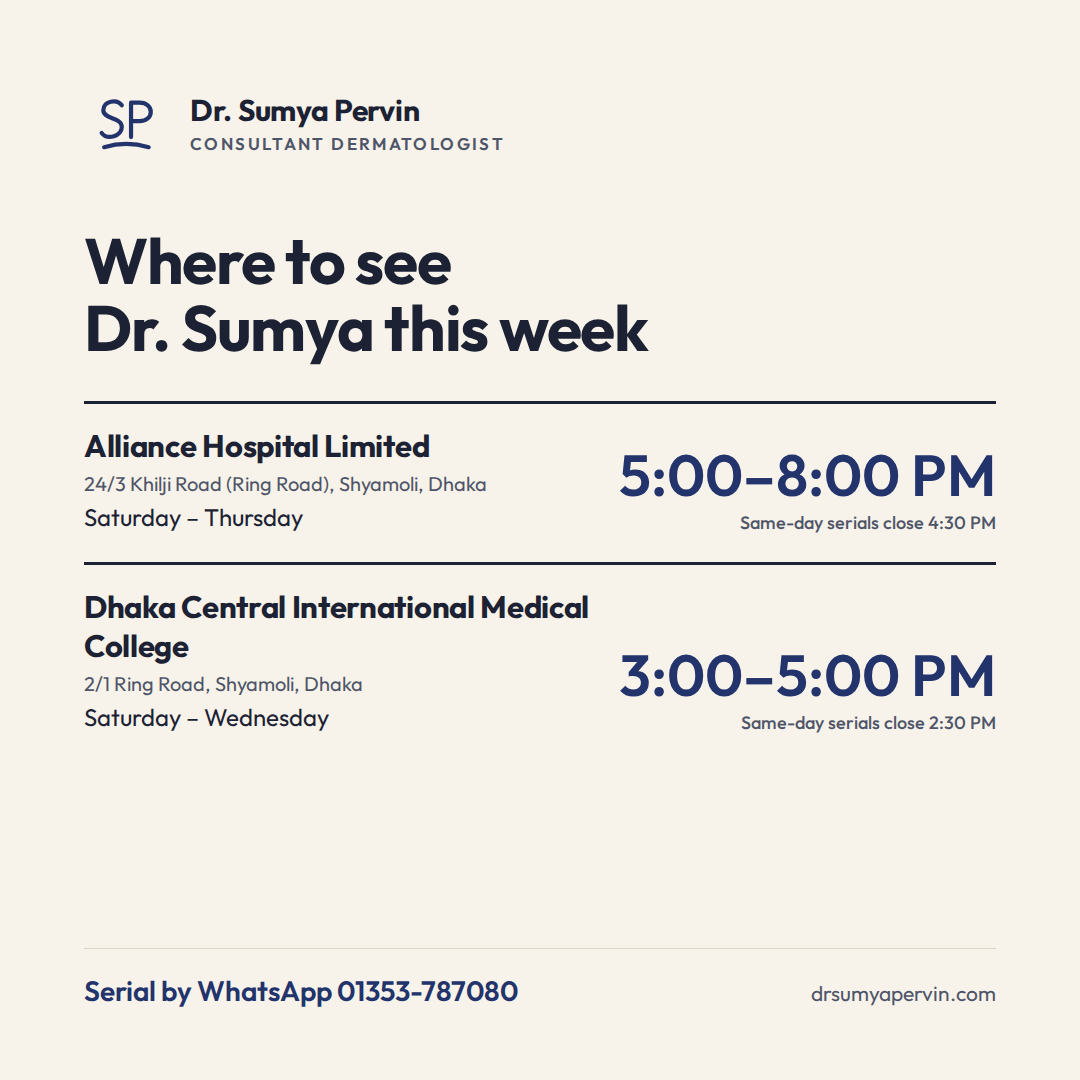
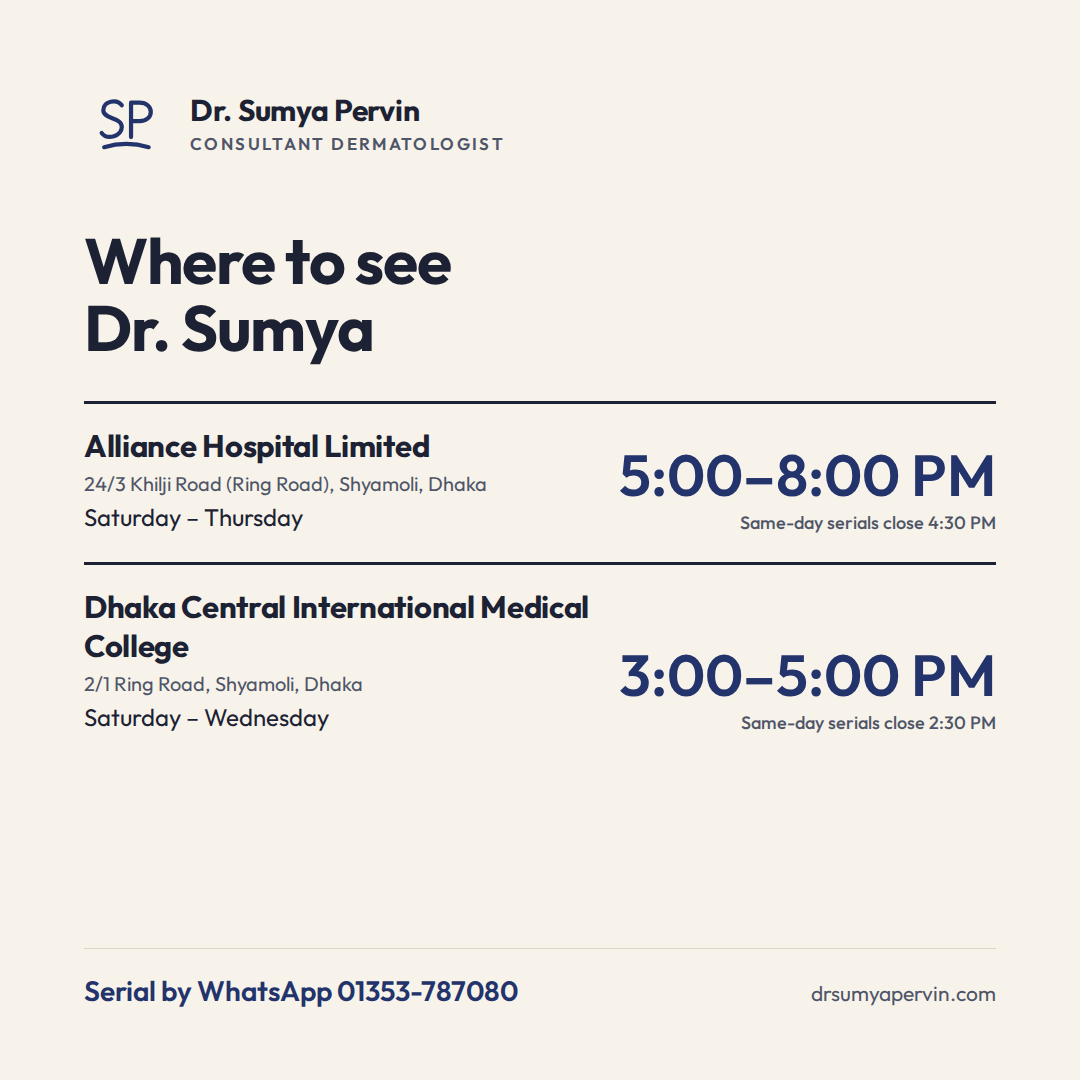
Review round: stable regeneration, area from the address, evergreen post
- The five print PDFs carry a fixed date stamp now: the build overwrites
  Chromium's wall-clock CreationDate/ModDate with a same-length fixed one,
  so a rerun that changes nothing leaves the PDFs byte-identical. The
  preview PNGs can still differ by a few sub-pixel anti-aliasing pixels
  with no visible change (measured: 5 px, mean diff 0.0); the README says
  such a diff can be discarded.
- The chamber area is read from the address itself (the part before the
  city) instead of the hardcoded "Shyamoli", so a future chamber outside
  Shyamoli cannot be mislabelled.
- The chamber-hours post no longer says "this week": it is a static asset
  and the word expired on printing it.
- README: the canonical qualifications line joins the owner's open
  questions (the confirmed source carries the years and BCPS; the kit
  prints the site's shorter line), and the proof note names the 5.4-6.6 pt
  card labels at the print floor.

Regenerated: the PDF date stamps are zeroed, and the chamber-hours post
is re-rendered without "this week". Verified: two consecutive rebuilds
leave every PDF byte-identical.

Changed region(s): [[0.3361, 0.275, 0.6111, 0.3361]]

diff --git a/design/brand-kit/README.md b/design/brand-kit/README.md
@@ -24,6 +24,8 @@ python design/brand-kit/tools/outline-type.py
 
 The fonts, Outfit and Hind Siliguri (both OFL), are downloaded once into `.cache/`, which git ignores.
 
+A regeneration is reproducible: the PDFs carry a fixed date stamp (the build overwrites Chromium's wall-clock one), so a rerun that changes nothing leaves the tree clean. The preview PNGs can still differ by a few pixels of sub-pixel anti-aliasing with no visible change — such a diff can be discarded.
+
 ## Contents
 
 | Folder | Files | Use |
@@ -39,7 +41,7 @@ The fonts, Outfit and Hind Siliguri (both OFL), are downloaded once into `.cache
 | | `follow-up-card-89x51.pdf` | The next-visit card, filled in by hand at the desk. |
 | | `nameboard-<chamber>-a3.pdf` | A3 landscape board for each chamber door. |
 
-The print PDFs are trim size plus **3 mm bleed** on every side, with no crop marks. Tell the printer the trim size from the table, and ask for a printed proof on the chosen stock before the full run. The PDFs are RGB, so deep indigo shifts between presses.
+The print PDFs are trim size plus **3 mm bleed** on every side, with no crop marks. Tell the printer the trim size from the table, and ask for a printed proof on the chosen stock before the full run. The PDFs are RGB, so deep indigo shifts between presses. The smallest card labels sit at 5.4–6.6 pt, at the practical print floor — check them first on the proof.
 
 ## Decisions taken for the owner
 
@@ -56,3 +58,4 @@ Dr. Sumya delegated these decisions on 2026-10-04.
 2. **"MD" in the site title.** `content/site.mjs` titles her "Dr. Sumya Pervin, MD", but no MD degree appears in her qualifications. The kit leaves it out. The website title should be checked too.
 3. **Bangla.** The follow-up card and nameboards would serve more patients with a Bangla line. Bangla needs her approval of the exact wording and the spelling of her name, so none is printed yet.
 4. **The Centre (2027).** The kit has no Centre lockup or signage. These come once the Centre is real.
+5. **The canonical qualifications line.** The kit prints the site's credential line — "MBBS (SSMC) · DDV (BSMMU) · FCPS (Skin & VD)" — but the confirmed source also carries the years and the granting body: "MBBS (SSMC, 2011) · DDV (BSMMU, 2019) · FCPS — Skin & VD (BCPS, 2025)". Confirm which form prints before a full run.
